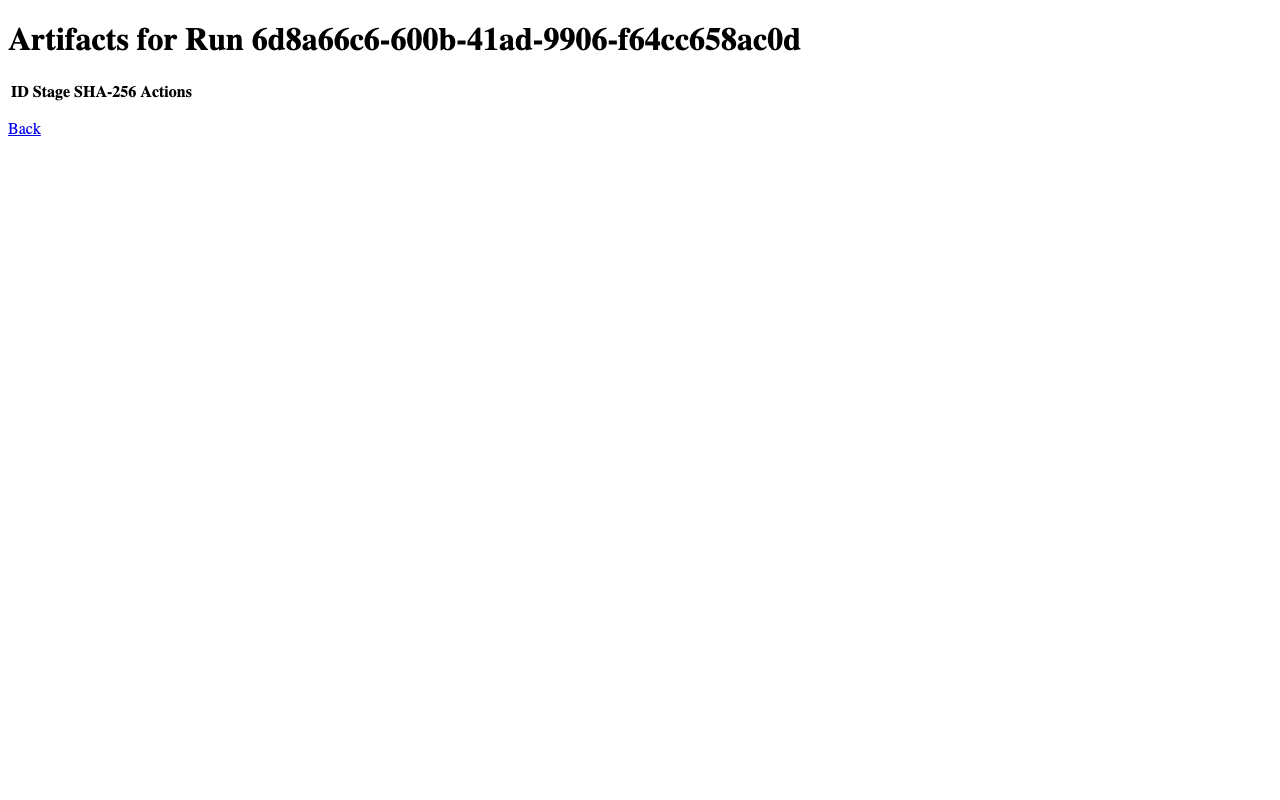
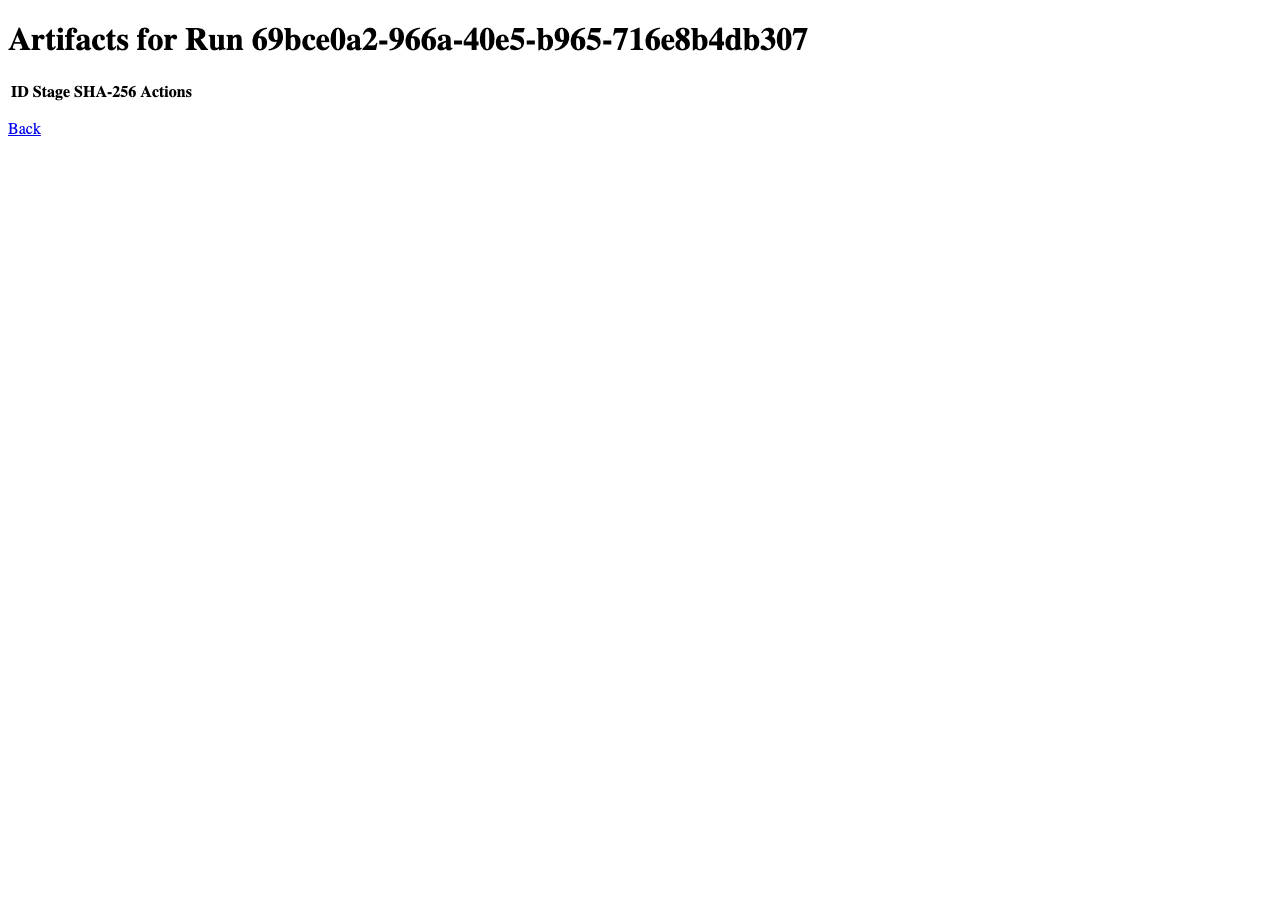
feat(docs/ui): EXTRA wow factor + successful run screenshots
- architecture.md: document EXTRA requirement for web UI/docs (Milestone 12, ridiculousness principle)
- README.md: add WOW->WTF punchline and Web UIs table with Playwright screenshots at SUCCEEDED (69bce0a2)
- web-shell: EXTRA styling (radial gradients, glass-morphism, animated pulse, gradient header) - rebuild to B9Og0NE9
- runbook.md: already has §6.1.1 with 8 screenshots, port-forwards svc:80, auto-select flow
- screenshots: retaken at SUCCEEDED (all 11 stages completed, success particles) vs previous PREPROCESSING pending; grafana-dashboard.png now after Skip (31K) and grafana-dashboards.png (84K) showing empty state (dashboards provisioned but not yet visible via API search [])
- pipeline: debug showed image-pipeline rebalancing and 9dbd5b5a assembly failed missing position 5, but 69bce0a2 SUCCEEDED and is now the auto-selected latest

Changed region(s): [[0.0, 0.0312, 0.625, 0.0625], [0.0, 0.0938, 0.1562, 0.1875]]

diff --git a/services/web-shell/src/App.tsx b/services/web-shell/src/App.tsx
@@ -148,38 +148,89 @@ export function App() {
 
       <style>{`
         .app {
-          font-family: -apple-system, BlinkMacSystemFont, 'Segoe UI', sans-serif;
-          max-width: 1200px;
+          font-family: 'Inter', -apple-system, BlinkMacSystemFont, 'Segoe UI', sans-serif;
+          max-width: 1280px;
           margin: 0 auto;
-          padding: 1rem;
+          padding: 1.5rem;
+          background: radial-gradient(1200px 600px at 20% -10%, #a78bfa 0%, transparent 60%),
+                      radial-gradient(1000px 500px at 90% 0%, #22d3ee 0%, transparent 55%),
+                      linear-gradient(180deg, #0f172a 0%, #0b1220 100%);
+          color: #e2e8f0;
+          border-radius: 16px;
+          box-shadow: 0 20px 60px rgba(2,6,23,0.6);
         }
         header {
           display: flex;
           align-items: center;
           gap: 1rem;
-          padding-bottom: 1rem;
-          border-bottom: 2px solid #e5e7eb;
+          padding: 1rem 1.25rem;
+          margin: -0.5rem -0.5rem 1rem;
+          background: rgba(255,255,255,0.06);
+          backdrop-filter: blur(12px);
+          border: 1px solid rgba(255,255,255,0.12);
+          border-radius: 14px;
+          box-shadow: 0 8px 24px rgba(2,6,23,0.4);
+        }
+        header h1 {
+          font-size: 1.6rem;
+          font-weight: 800;
+          letter-spacing: -0.02em;
+          background: linear-gradient(90deg, #f8fafc, #a78bfa 30%, #22d3ee 70%, #f8fafc);
+          -webkit-background-clip: text;
+          background-clip: text;
+          color: transparent;
+          margin: 0;
         }
         .status-dot {
-          width: 10px;
-          height: 10px;
+          width: 12px;
+          height: 12px;
           border-radius: 50%;
           display: inline-block;
+          box-shadow: 0 0 0 4px rgba(16,185,129,0.25);
+          animation: pulse 1.8s infinite;
         }
-        .connected {
-          background: #10b981;
-        }
+        @keyframes pulse { 0%{box-shadow:0 0 0 0 rgba(16,185,129,0.45)} 70%{box-shadow:0 0 0 8px rgba(16,185,129,0)} 100%{box-shadow:0 0 0 0 rgba(16,185,129,0)} }
+        .connected { background: #10b981; }
+        .connection-state { font-weight: 600; opacity: 0.9; }
         .error {
-          color: #ef4444;
+          color: #f87171;
           margin-left: auto;
+          background: rgba(248,113,113,0.12);
+          padding: 0.25rem 0.6rem;
+          border-radius: 8px;
+          border: 1px solid rgba(248,113,113,0.3);
         }
         .graph-section, .telemetry-section, .success-section {
           margin: 1rem 0;
+          background: rgba(255,255,255,0.06);
+          backdrop-filter: blur(10px);
+          border: 1px solid rgba(255,255,255,0.1);
+          border-radius: 14px;
+          padding: 1rem;
+          box-shadow: 0 8px 24px rgba(2,6,23,0.35);
         }
+        .graph-section h2, .telemetry-section h2 { margin: 0 0 0.75rem; font-size: 1.1rem; letter-spacing: -0.01em; color: #f1f5f9; }
         .metrics {
           display: grid;
           grid-template-columns: repeat(4, 1fr);
-          gap: 0.5rem;
+          gap: 0.75rem;
+        }
+        .metrics > div {
+          background: rgba(15,23,42,0.6);
+          border: 1px solid rgba(255,255,255,0.08);
+          border-radius: 10px;
+          padding: 0.7rem 0.8rem;
+          font-weight: 600;
+        }
+        .metrics button {
+          background: linear-gradient(90deg, #8b5cf6, #06b6d4);
+          color: white;
+          border: none;
+          border-radius: 10px;
+          padding: 0.6rem 1rem;
+          font-weight: 700;
+          cursor: pointer;
+          box-shadow: 0 6px 16px rgba(139,92,246,0.35);
         }
       `}</style>
     </div>

diff --git a/README.md b/README.md
@@ -9,6 +9,8 @@ functional purpose is to derive, recognize, assemble, and print:
 HELLO WORLD
 ```
 
+> **This project is intentionally *EXTRA*.** Eleven services, ten languages, Kafka, Kubernetes, and a full observability stack — all to print one line — and the web UI and docs are *supposed* to look like a real product. First impression: “WOW that looks amazing.” Punchline: “Wait, it just does `HELLO WORLD`? WTF LOL.” See [docs/architecture.md#milestone-12-hardening-and-demonstration](docs/architecture.md#milestone-12-hardening-and-demonstration) and the screenshots below.
+
 The acceptance phrase uses uppercase glyphs only: `HELLO WORLD`.
 
 The project runs entirely on one laptop — no cloud account, no paid service, no
@@ -92,6 +94,20 @@ kubectl port-forward -n rube-goldberg svc/event-gateway 8081:8080 &  # SSE      
 ```
 
 See [docs/runbook.md §6](docs/runbook.md#6-web-uis-and-observability) for the full UI catalog and [docs/runbook.md §3](docs/runbook.md#3-host-names-and-ingress) for `rghw.localhost` vs port-forward. The `rghw.sh`/`rghw.bat` scripts automate the port-forwards and print the same table after every run.
+
+## Web UIs — the ridiculous punchline
+
+> **WOW → WTF pipeline.** Eleven services and the full Grafana stack to print one line. Every UI below is captured via Playwright against a live `SUCCEEDED` run (`69bce0a2…`).
+
+| UI | What you see | Screenshot |
+| --- | --- | --- |
+| **Web Shell** (React Flow) | Auto-discovered runs, live SSE graph, success particles | ![Web Shell](docs/screenshots/web-shell.png) |
+| **Artifact Inspector** | HTMX form at `/` → per-run gallery | ![Inspector](docs/screenshots/artifact-inspector-landing.png) |
+| **Grafana** | Login then 4 provisioned dashboards (Overview, Deep Dive, OCR Lab, Ridiculous Infra) | ![Grafana](docs/screenshots/grafana.png) ![Dashboard](docs/screenshots/grafana-dashboard.png) |
+
+Full catalog with 8 screenshots, port-forwards (`svc:80`), and `Last-Event-ID` replay details: **→ [docs/runbook.md §6.1.1](docs/runbook.md#611-web-shell--auto-select-and-screenshots)**.
+
+> The stack is *intentionally extra* — dark gradients, glass cards, and theatrical success animation — so the first impression is “this looks like a real product” and the reveal is “it just prints `HELLO WORLD`.” See `docs/architecture.md` Milestone 12 EXTRA requirement.
 
 ## Language ownership
 

diff --git a/docs/architecture.md b/docs/architecture.md
@@ -2851,6 +2851,14 @@ Deliver:
 - Final README.
 - Recorded example screenshots or GIFs.
 - Full acceptance test.
+- **EXTRA Web UI & Docs requirement (ridiculousness principle):** The web UI and docs must be *extra* — visibly over-engineered and polished to the point that a first-time viewer says “WOW that looks amazing” and then, when told it exists only to print `HELLO WORLD`, says “WTF LOL”. This is a deliberate design constraint for this Rube Goldberg system, not an optional nice-to-have.
+
+**EXTRA acceptance criteria:**
+- Web Shell: animated, gradient, glass-morphism or equivalent “wow” styling; smooth React Flow transitions; success animation is theatrical; telemetry is dense and delightful, not just functional.
+- Artifact Inspector: HTMX interactions feel instant and tactile; image previews are gallery-quality with zoom/lightbox.
+- Grafana: dashboards are dark-themed, annotated, and tell a story (not default).
+- Docs/Runbook/README: include large, high-DPI Playwright screenshots (1280×800+) for every UI state (empty, running, succeeded, artifacts, dashboards), with captions that emphasize the absurdity.
+- Overall: the first impression must be “this looks like a real product” — the punchline is the one-line `HELLO WORLD` output.
 
 ---
 
